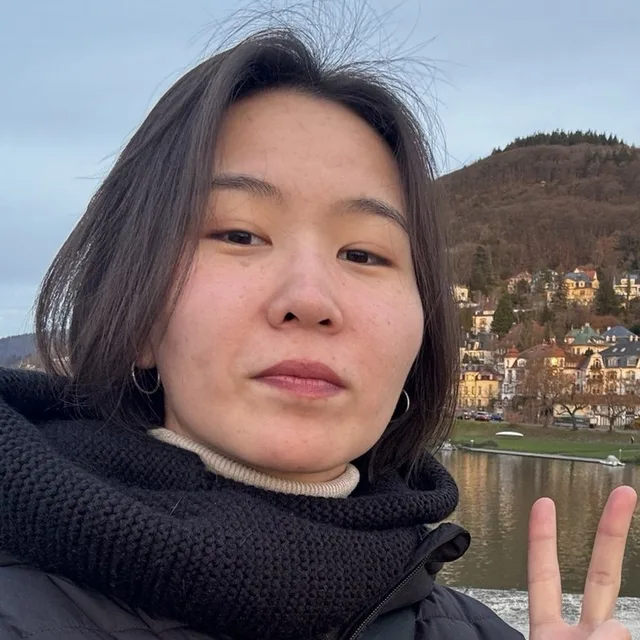
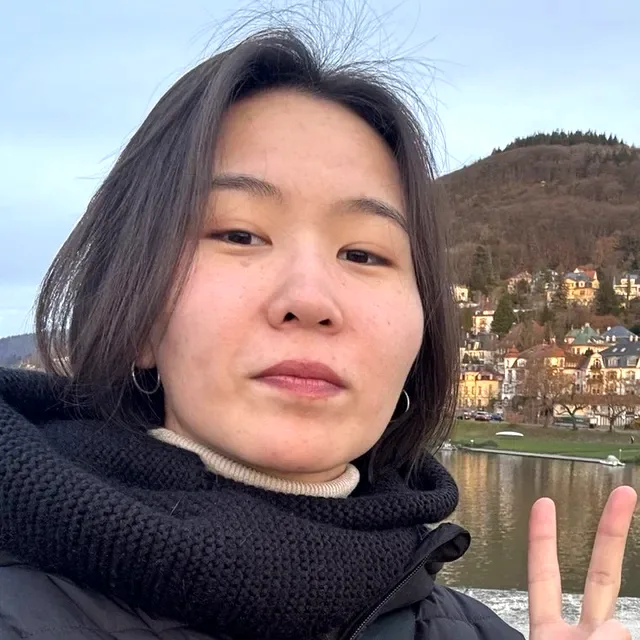
Clarify member bios and brighten member photos
Bios explain their terms (virial parameter, velocity gradient technique, foreground subtraction) and lose filler; Denis's bio describes the VGT rewrite and ROHSA work. Photos: auto-levels plus a midtone lift on the darker ones, the bottom fade removed and the scanlines cut to 6% with a small brightness lift, so the rendered photo is as bright as the file.

diff --git a/src/content/people/denis-andreyev.md b/src/content/people/denis-andreyev.md
@@ -1,11 +1,11 @@
 ---
 name: "Denis Andreyev"
 role: "Student"
-focus: "LMC magnetic field, gas phase separation"
+focus: "LMC magnetic field, velocity gradients, cold gas"
 order: 8
 photo: "/people/denis-andreyev.webp"
 links:
   - label: "GitHub"
     href: "https://github.com/unsound-mint"
 ---
-Maps the magnetic field of the Large Magellanic Cloud from atomic gas and separates its cold neutral hydrogen from the rest.
+Rewrote our velocity gradient code, which turns H I and CO spectral cubes into magnetic-field maps, as a parallel Julia package tested on synthetic cubes from MHD simulations, and parallelised ROHSA, which splits H I spectra into Gaussian components. Uses both to map the field of the Large Magellanic Cloud and its Milky Way foreground against starlight and Planck polarization, and to find its cold atomic gas. Also builds this website.

diff --git a/src/content/people/dana-makarova.md b/src/content/people/dana-makarova.md
@@ -5,4 +5,4 @@ focus: "Hub-filament systems, MHD simulations"
 order: 4
 photo: "/people/dana-makarova.webp"
 ---
-Studies how interstellar gas gathers into filaments and hub-filament systems, where massive stars and clusters form. Combines magnetohydrodynamic simulations with synthetic molecular-line observations to test how much of their 3D structure and gas inflow an observer can recover, and uses dust polarization to study how turbulence and the magnetic field shape filaments.
+Studies how interstellar gas gathers into filaments and hub-filament systems, where massive stars and clusters form. Uses magnetohydrodynamic simulations and synthetic molecular-line observations to test how much of a hub's 3D structure and gas inflow an observer can recover, and dust polarization to study how turbulence and the magnetic field shape filaments.

diff --git a/src/content/people/abusultan-meirambekuly.md b/src/content/people/abusultan-meirambekuly.md
@@ -1,8 +1,8 @@
 ---
 name: "Abusultan Meirambekuly"
 role: "Undergraduate student"
-focus: "LMC polarization, magnetic fields in clouds"
+focus: "LMC magnetic fields, molecular clouds"
 order: 9
 photo: "/people/abusultan-meirambekuly.webp"
 ---
-Analyses polarization angles in the Large Magellanic Cloud. Applies the velocity gradient technique to GASKAP-HI 21 cm and Mopra CO data towards its molecular clouds, and compares the result with Planck 353 GHz and optical polarization catalogues.
+Measures magnetic field directions in molecular clouds of the Large Magellanic Cloud with the velocity gradient technique, which reads the field direction from gas motions in GASKAP-HI 21 cm and Mopra CO data. Compares the result with Planck 353 GHz dust polarization and with optical polarization catalogues.

diff --git a/src/content/people/eldana-rustem.md b/src/content/people/eldana-rustem.md
@@ -1,8 +1,8 @@
 ---
 name: "Eldana Rustem"
 role: "Undergraduate student"
-focus: "Foreground subtraction, LMC"
+focus: "Milky Way foreground, LMC"
 order: 10
 photo: "/people/eldana-rustem.webp"
 ---
-Subtracts the Milky Way foreground from polarization data towards the LMC by evaluating the Galactic magnetic field component in that direction.
+Removes the Milky Way's contribution from polarization maps of the Large Magellanic Cloud. Light from the LMC passes through dust in our own Galaxy, so the Galactic magnetic field along that line of sight has to be estimated and subtracted first.

diff --git a/src/content/people/baurzhan-kumarioldanov.md b/src/content/people/baurzhan-kumarioldanov.md
@@ -5,4 +5,4 @@ focus: "Neural networks, virial parameter"
 order: 5
 photo: "/people/baurzhan-kumarioldanov.webp"
 ---
-Leads a project that trains a neural network to predict the virial parameter of molecular clouds. Helps install the software for the polarimeter at the Assy-Turgen Observatory.
+Leads a project that trains a neural network to predict the virial parameter of molecular clouds, which tells whether a cloud is held together by its own gravity. Helps install the software for the polarimeter at the Assy-Turgen Observatory.

diff --git a/src/content/people/adel-umirbayeva.md b/src/content/people/adel-umirbayeva.md
@@ -5,4 +5,4 @@ focus: "Interstellar magnetic fields, optical polarimetry"
 order: 3
 photo: "/people/adel-umirbayeva.webp"
 ---
-Investigates magnetic fields in the interstellar medium through polarimetric observations and multi-wavelength analysis. Also develops optical polarimetric instrumentation and analyses astronomical observational data.
+Studies magnetic fields in molecular clouds and star-forming regions with polarization observations at several wavelengths, and works on instruments for optical polarimetry.

diff --git a/src/content/people/ali-tussupov.md b/src/content/people/ali-tussupov.md
@@ -4,4 +4,4 @@ role: "Master's student"
 focus: "Neural networks, virial parameter"
 order: 6
 ---
-Works on the project that trains a neural network to predict the virial parameter of molecular clouds. Helps install the software for the polarimeter at the Assy-Turgen Observatory.
+Works on a neural network that predicts the virial parameter of molecular clouds, which tells whether a cloud is held together by its own gravity. Helps install the software for the polarimeter at the Assy-Turgen Observatory.

diff --git a/src/content/people/temirkul-umetaliev.md b/src/content/people/temirkul-umetaliev.md
@@ -8,4 +8,4 @@ links:
   - label: "U-Net code"
     href: "https://github.com/Temirkul/ism-filaments-analysis"
 ---
-Built our U-Net, a neural network that finds interstellar filaments in dust maps and measures their position angles (Umetaliev, Alina and Salmenova 2025).
+Built our U-Net, a neural network that finds interstellar filaments in dust maps and measures their position angles (Umetaliev et al. 2025).
